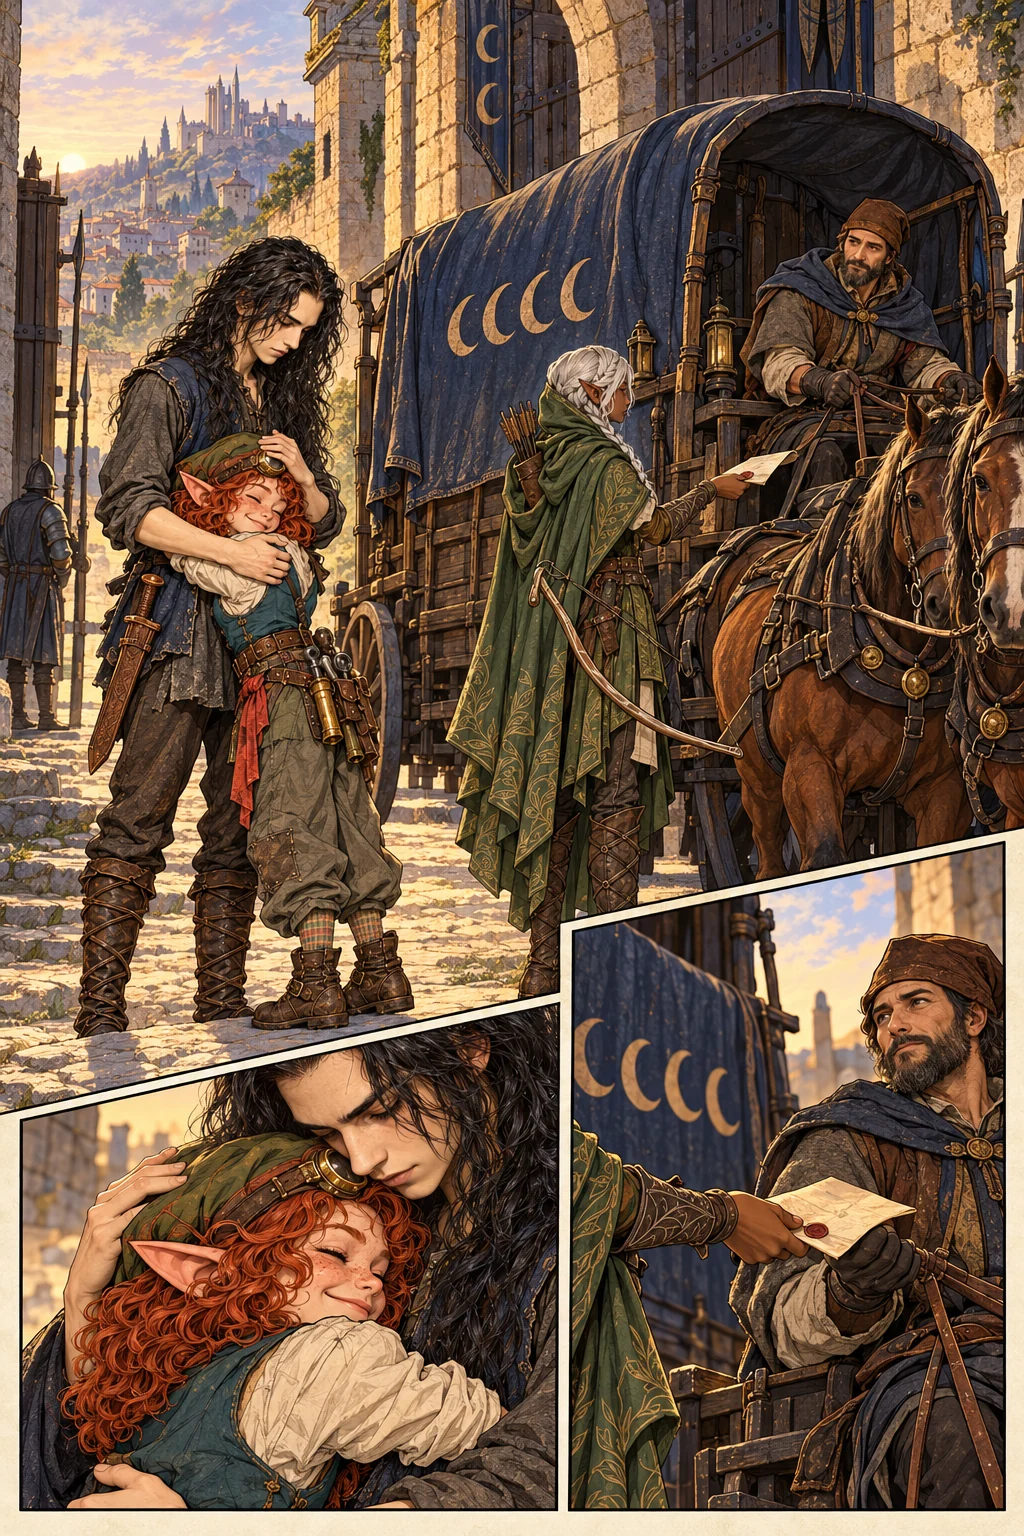
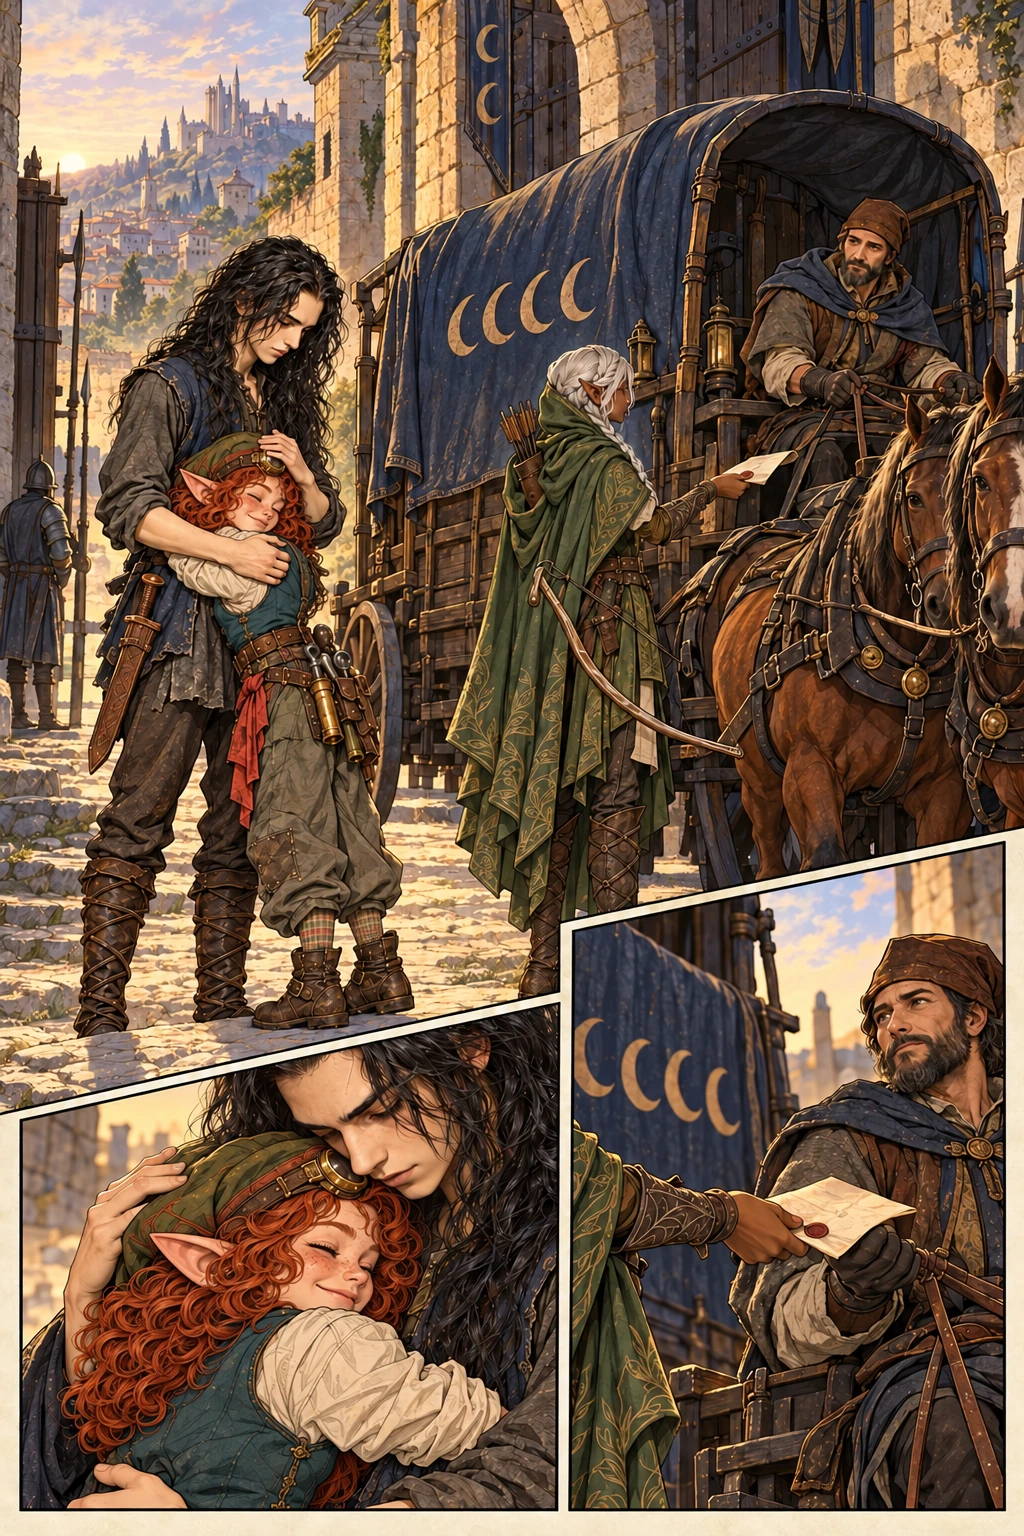
Refine medieval comic lettering and correct page 32 art

diff --git a/reader/templates/reader/medieval_read.html b/reader/templates/reader/medieval_read.html
@@ -2,23 +2,24 @@
 {% block title %}Página {{ page.number }} · {{ arc.title }} · Voidwielder{% endblock %}
 {% block description %}{{ page.title }} — página {{ page.number }} de {{ story.title }}.{% endblock %}
 {% block og_image %}<meta property="og:image" content="{% static page_art %}">{% endblock %}
-{% block extra_styles %}<link rel="stylesheet" href="{% static 'reader/css/medieval.css' %}?v=4">{% endblock %}
+{% block extra_styles %}<link rel="stylesheet" href="{% static 'reader/css/medieval.css' %}?v=5">{% endblock %}
 {% block content %}
 <div class="twilight-reader" data-medieval-reader>
   <div class="twilight-reader-head"><nav class="twilight-breadcrumb" aria-label="Caminho"><a href="{% url 'reader:search' %}?tipo=hq">HQs</a><span aria-hidden="true">/</span><a href="{% url 'reader:medieval_detail' %}">{{ story.title }}</a><span aria-hidden="true">/</span><a href="{{ arc.url }}">{{ arc.title }}</a></nav><span class="twilight-reader-count">{{ page.number|stringformat:'02d' }} / {{ last_page|stringformat:'02d' }}</span></div>
   <header class="twilight-page-title"><div><p class="twilight-kicker">{{ page.time }} · Página {{ page.number }}</p><h1>{{ page.title }}</h1></div><a href="{{ arc.url }}" class="twilight-list-link">Todas as páginas <span aria-hidden="true">↗</span></a></header>
   <div class="twilight-page-progress" role="progressbar" aria-label="Leitura da HQ" aria-valuenow="{{ page.number }}" aria-valuemin="1" aria-valuemax="{{ last_page }}"><span style="width:{% widthratio page.number last_page 100 %}%"></span></div>
   <article class="twilight-comic" aria-label="{{ page.title }}">
+    {% if page.number > 12 and page.number <= 25 %}<p class="twilight-scroll-hint">Deslize cada quadro para ler toda a arte e os balões <span aria-hidden="true">→</span></p>{% endif %}
     {% if page.number > 25 %}<p class="twilight-scroll-hint">Deslize a página para ler toda a arte e os balões <span aria-hidden="true">→</span></p><div class="twilight-page-scroll"><figure class="twilight-page-stage twilight-panel-dialogue" aria-label="{{ page.title }}">
       <img class="twilight-full-art" src="{% static page_art %}" alt="Arte da página {{ page.number }}: {{ page.title }}" fetchpriority="high" width="1024" height="1536">
-      {% for line in page.lines %}<p class="twilight-speech twilight-page-speech" style="--bubble-x:{{ line.balloon.x }}%;--bubble-y:{{ line.balloon.y }}%;--bubble-w:{{ line.balloon.w }}%" data-target-x="{{ line.balloon.target_x }}" data-target-y="{{ line.balloon.target_y }}"{% if line.off_panel %} data-off-panel="true"{% endif %}><strong>{{ line.speaker }}{% if line.off_panel %} · fora do quadro{% endif %}</strong><span>{{ line.text }}</span></p>{% endfor %}
+      {% for line in page.lines %}<p class="twilight-speech twilight-page-speech{% if line.balloon.kind %} twilight-speech--{{ line.balloon.kind }}{% endif %}" style="--bubble-x:{{ line.balloon.x }}%;--bubble-y:{{ line.balloon.y }}%;--bubble-w:{{ line.balloon.w }}%" data-target-x="{{ line.balloon.target_x }}" data-target-y="{{ line.balloon.target_y }}"{% if line.balloon.kind %} data-balloon-kind="{{ line.balloon.kind }}"{% endif %}{% if line.off_panel %} data-off-panel="true"{% endif %}><strong>{{ line.speaker }}{% if line.off_panel %} · fora do quadro{% endif %}</strong><span>{{ line.text }}</span></p>{% endfor %}
       <svg class="twilight-balloon-tails" aria-hidden="true"></svg>
     </figure></div>
     {% else %}
     {% for panel in page.panels %}
       {% if page.number > 12 %}
         <figure class="twilight-panel twilight-panel-{{ forloop.counter }} twilight-panel-new{% if panel.lines.0.balloon %} twilight-panel-dialogue{% endif %}">
-          <div class="twilight-panel-art"><img src="{% static page_art %}" alt="{{ panel.scene }}" {% if forloop.first %}fetchpriority="high"{% else %}loading="lazy"{% endif %} width="1024" height="1536">{% if panel.lines.0.balloon %}{% for line in panel.lines %}{% if line.balloon %}<p class="twilight-speech" style="--bubble-x:{{ line.balloon.x }}%;--bubble-y:{{ line.balloon.y }}%;--bubble-w:{{ line.balloon.w }}%" data-target-x="{{ line.balloon.target_x }}" data-target-y="{{ line.balloon.target_y }}"><strong>{{ line.speaker }}</strong><span>{{ line.text }}</span></p>{% endif %}{% endfor %}<svg class="twilight-balloon-tails" aria-hidden="true"></svg>{% endif %}</div>
+          <div class="twilight-panel-art"><img src="{% static page_art %}" alt="{{ panel.scene }}" {% if forloop.first %}fetchpriority="high"{% else %}loading="lazy"{% endif %} width="1024" height="1536">{% if panel.lines.0.balloon %}{% for line in panel.lines %}{% if line.balloon %}<p class="twilight-speech{% if line.balloon.kind %} twilight-speech--{{ line.balloon.kind }}{% endif %}" style="--bubble-x:{{ line.balloon.x }}%;--bubble-y:{{ line.balloon.y }}%;--bubble-w:{{ line.balloon.w }}%" data-target-x="{{ line.balloon.target_x }}" data-target-y="{{ line.balloon.target_y }}"{% if line.balloon.kind %} data-balloon-kind="{{ line.balloon.kind }}"{% endif %}><strong>{{ line.speaker }}</strong><span>{{ line.text }}</span></p>{% endif %}{% endfor %}<svg class="twilight-balloon-tails" aria-hidden="true"></svg>{% endif %}</div>
           {% if not panel.lines.0.balloon %}<figcaption class="twilight-narration">{% for line in panel.lines %}<p>{{ line.text }}</p>{% endfor %}</figcaption>{% endif %}
         </figure>
       {% else %}<figure class="twilight-panel twilight-panel-{{ forloop.counter }}"><div class="twilight-panel-art"><img src="{% static page_art %}" alt="{{ panel.scene }}" {% if forloop.first %}fetchpriority="high"{% else %}loading="lazy"{% endif %} width="1024" height="1536"></div><figcaption>{% for line in panel.lines %}<p><strong>{{ line.speaker }}</strong><span>{{ line.text }}</span></p>{% endfor %}</figcaption></figure>{% endif %}
@@ -28,4 +29,4 @@
   <nav class="twilight-reader-nav" aria-label="Navegar nas páginas"><div>{% if previous_url %}<a href="{{ previous_url }}" rel="prev"><span aria-hidden="true">←</span> Página anterior</a>{% else %}<span class="twilight-nav-disabled">Início da HQ</span>{% endif %}</div><span>Página {{ page.number }} de {{ last_page }}</span><div>{% if next_url %}<a href="{{ next_url }}" rel="next">Próxima página <span aria-hidden="true">→</span></a>{% else %}<a href="{{ arc_url }}">Mais do arco <span aria-hidden="true">↗</span></a>{% endif %}</div></nav>
 </div>
 {% endblock %}
-{% block extra_scripts %}<script src="{% static 'reader/js/medieval-reader.js' %}?v=6" defer></script>{% endblock %}
+{% block extra_scripts %}<script src="{% static 'reader/js/medieval-reader.js' %}?v=7" defer></script>{% endblock %}

diff --git a/reader/static/reader/css/medieval.css b/reader/static/reader/css/medieval.css
@@ -60,3 +60,12 @@
 @media(max-width:820px){.twilight-arc-list .twilight-arc-card:nth-child(even){grid-template-columns:1fr}.twilight-arc-list .twilight-arc-card:nth-child(even) .twilight-arc-art{order:0}}
 .twilight-scroll-hint{display:none}
 @media(max-width:600px){.twilight-page-stage{min-width:600px}.twilight-panel-new .twilight-speech{margin:0;width:var(--bubble-w);padding:6px 9px;font-size:.76rem;border-radius:14px}.twilight-page-speech{font-size:.88rem}.twilight-scroll-hint{display:block;color:#c6b79d;font-size:.82rem;margin:12px 0 9px}}
+
+/* Lettering follows the emotion while every balloon stays inside its assigned art. */
+.twilight-panel-new .twilight-speech--shout,.twilight-page-speech.twilight-speech--shout{border:3px solid #1a232a;border-radius:6px 15px 5px 14px;padding:8px 12px;background:#fff9e7;box-shadow:4px 4px 0 #d5a04a}
+.twilight-speech--shout::before{content:"";position:absolute;right:-11px;top:-12px;width:21px;height:21px;background:#ffdb76;clip-path:polygon(50% 0,63% 35%,100% 20%,75% 53%,100% 75%,62% 70%,50% 100%,37% 69%,0 80%,25% 50%,0 20%,38% 34%)}
+.twilight-speech--shout span{font-weight:800}
+.twilight-panel-new .twilight-speech--thought,.twilight-page-speech.twilight-speech--thought{border-radius:42% 38% 44% 40% / 40% 45% 40% 46%;padding:12px 17px}
+.twilight-panel-new .twilight-speech--whisper,.twilight-page-speech.twilight-speech--whisper{border-style:dashed;box-shadow:none}
+.twilight-speech--whisper span{font-style:italic}
+@media(max-width:600px){.twilight-panel.twilight-panel-new.twilight-panel-dialogue{overflow-x:auto;overflow-y:hidden}.twilight-panel-new.twilight-panel-dialogue .twilight-panel-art{width:680px;min-width:680px}}

diff --git a/reader/static/reader/js/medieval-reader.js b/reader/static/reader/js/medieval-reader.js
@@ -47,6 +47,20 @@
         const deltaY = targetY - startY;
         const distance = Math.hypot(deltaX, deltaY);
         if (distance < 3) return;
+        if (balloon.dataset.balloonKind === 'thought') {
+          // A short chain of dots distinguishes inner thought from spoken words.
+          [9, 20, 32].forEach((step, index) => {
+            const dot = document.createElementNS('http://www.w3.org/2000/svg', 'circle');
+            dot.setAttribute('cx', startX + deltaX / distance * Math.min(step, distance));
+            dot.setAttribute('cy', startY + deltaY / distance * Math.min(step, distance));
+            dot.setAttribute('r', 5 - index);
+            dot.setAttribute('fill', '#fffdf6');
+            dot.setAttribute('stroke', '#1a232a');
+            dot.setAttribute('stroke-width', '2');
+            svg.append(dot);
+          });
+          return;
+        }
         const length = Math.min(distance, clamp(artBox.width * .035, 18, 34));
         const tipX = startX + deltaX / distance * length;
         const tipY = startY + deltaY / distance * length;

diff --git a/reader/tests/test_medieval.py b/reader/tests/test_medieval.py
@@ -39,9 +39,10 @@ def test_medieval_canon_and_page_sequence():
     assert all(
         line["speaker"] in ({CANON["characters"][name]["name"] for name in page["cast"]} | ({"Avel"} if "avel" in page["cast"] else set()))
         and 0 <= line["balloon"]["x"] <= 100 - line["balloon"]["w"]
-        and 0 <= line["balloon"]["y"] <= 90
+        and 0 <= line["balloon"]["y"] <= 96
         and 0 <= line["balloon"]["target_x"] <= 100
         and 0 <= line["balloon"]["target_y"] <= 100
+        and line["balloon"].get("kind", "normal") in {"normal", "shout", "thought", "whisper"}
         for page in PAGES[25:] for line in page["lines"]
     )
 

diff --git a/.agents/skills/fantasy-hq-continuity/SKILL.md b/.agents/skills/fantasy-hq-continuity/SKILL.md
@@ -17,8 +17,11 @@ Use esta skill ao escrever, ilustrar, diagramar ou revisar **As Estradas do Crep
 ## Página e balões
 
 - Escolha o arranjo de quadros pelo acontecimento: vinheta ampla para apresentação, cortes curtos para ação, tamanhos assimétricos para ritmo e página de impacto quando merecida. **Não repita três faixas horizontais como molde fixo.** Preserve a ordem de leitura da esquerda para a direita e de cima para baixo.
-- Reserve áreas de respiro na própria arte para os balões. Não acrescente uma faixa grande opaca acima da ilustração nem recorte personagens ou cenário para abrir espaço. Use balões compactos de HQ, com texto legível no celular e cauda curta apontada para a cabeça ou boca do falante. Cada fala deve corresponder ao personagem visível ou ser marcada claramente como fora de quadro. Narração usa caixa discreta, sem cauda.
-- Antes de finalizar, confira cada balão pela ordem de leitura: texto, falante no roteiro, personagem desenhado e ponta da cauda devem concordar. Evite cobrir rostos, gestos, pistas visuais e a ação principal.
+- Reserve áreas de respiro na própria arte para os balões. Não acrescente uma faixa grande opaca acima da ilustração nem recorte personagens ou cenário para abrir espaço. Use balões compactos de HQ, com texto legível no celular. Cada fala deve corresponder ao personagem visível ou ser marcada claramente como fora de quadro. Narração usa caixa discreta, sem cauda.
+- **Mapeie o rosto, o cabelo, as mãos e a ação antes de posicionar cada balão. Nunca cubra olhos, boca, rosto ou expressão de qualquer personagem.** Reposicione e ajuste a largura do balão para ocupar cenário livre; a cauda deve apontar ao falante correto, preferencialmente perto da boca, sem atravessar outro rosto. Se não houver espaço seguro, adapte a composição do balão e revise a arte somente quando o usuário autorizar.
+- Use uma linguagem visual consistente: balão arredondado para fala comum; contorno pontudo para grito; nuvem com pontos na cauda para pensamento interior; contorno pontilhado para sussurro. Escolha pelo sentido da fala, sem alterar o texto só para justificar o desenho. Mantenha a leitura da esquerda para a direita e de cima para baixo, inclusive quando houver vários falantes.
+- Antes de finalizar, confira **cada** balão pela ordem de leitura: texto, falante no roteiro, personagem desenhado e ponta da cauda devem concordar. Faça a conferência no navegador, em desktop e celular, e repita após qualquer mudança de fonte, tamanho ou posição. Reprove balões cortados, sobrepostos, fora da página ou que escondam rostos, gestos, pistas visuais e a ação principal.
+- Referências técnicas de letreiramento: [Blambot, Comic Book Grammar & Tradition](https://blambot.com/en-gb/pages/comic-book-grammar-tradition), [Todd Klein, Balloon Placement](https://kleinletters.com/BalloonPlacement.html) e [Jim Shooter, Lettering](https://storytelling.jimshooter.com/lettering/). Use os princípios de legibilidade e atribuição; não copie a arte das referências.
 
 ## Revisão de continuidade
 
